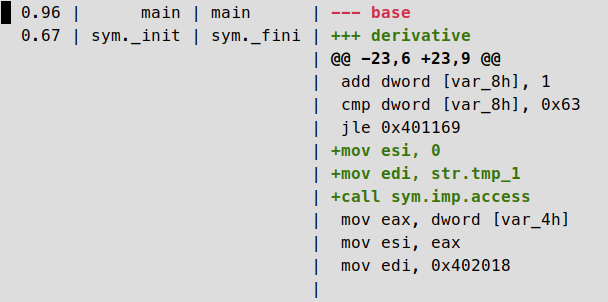
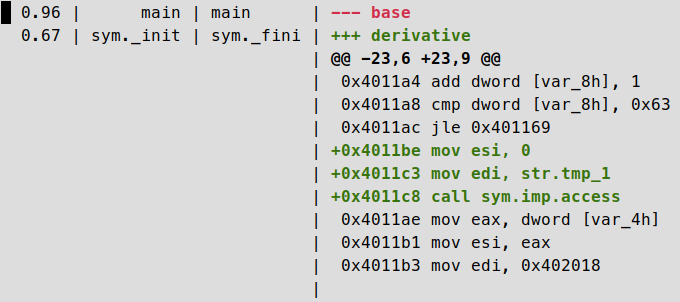
Update multipane

diff --git a/differences/multipane_tui.py b/differences/multipane_tui.py
@@ -17,6 +17,30 @@ def exit_(event):
     event.app.exit()
 
 
+@kb.add("j")
+def down_(event):
+    if event.current_buffer.name == "entries":
+        event.current_buffer.cursor_down()
+
+
+@kb.add("k")
+def up_(event):
+    if event.current_buffer.name == "entries":
+        event.current_buffer.cursor_up()
+
+
+@kb.add("h")
+def left_(event):
+    if event.current_buffer.name == "entries":
+        event.current_buffer.cursor_left()
+
+
+@kb.add("l")
+def right_(event):
+    if event.current_buffer.name == "entries":
+        event.current_buffer.cursor_right()
+
+
 class MultiPane:
     def __init__(self, entries, callback):
         self.entries = entries
@@ -27,6 +51,7 @@ class MultiPane:
         self.entries_control = BufferControl(
             buffer=Buffer(
                 document=Document(self.entries, 0),
+                name="entries",
                 on_cursor_position_changed=self.update,
                 read_only=True,
             )

diff --git a/differences/funcdiff.py b/differences/funcdiff.py
@@ -21,7 +21,7 @@ def parse_functions(filename):
         opcodes = []
         # FIXME: Consider `pdrj`
         for ins in r2p.cmdj(f"pdfj @{f['offset']}")["ops"]:
-            instructions.append(ins["disasm"])
+            instructions.append(f"{hex(ins['offset'])} {ins['disasm']}")
             opcodes.append(ins["disasm"].split()[0])
         parsed_functions.append(
             {

diff --git a/README.md b/README.md
@@ -638,7 +638,7 @@ Input:
 ./funcdiff_tui.py ./sequences/loops ./sequences/loops.with_access
 ```
 
-Output (interactive interface with preview for function diffs, entries sorted by similarity ratio):
+Output (interactive interface with preview for function diffs, offsets don't contribute to the diff, entries sorted by similarity ratio):
 
 ![image](./differences/funcdiff_loops.png)
 
